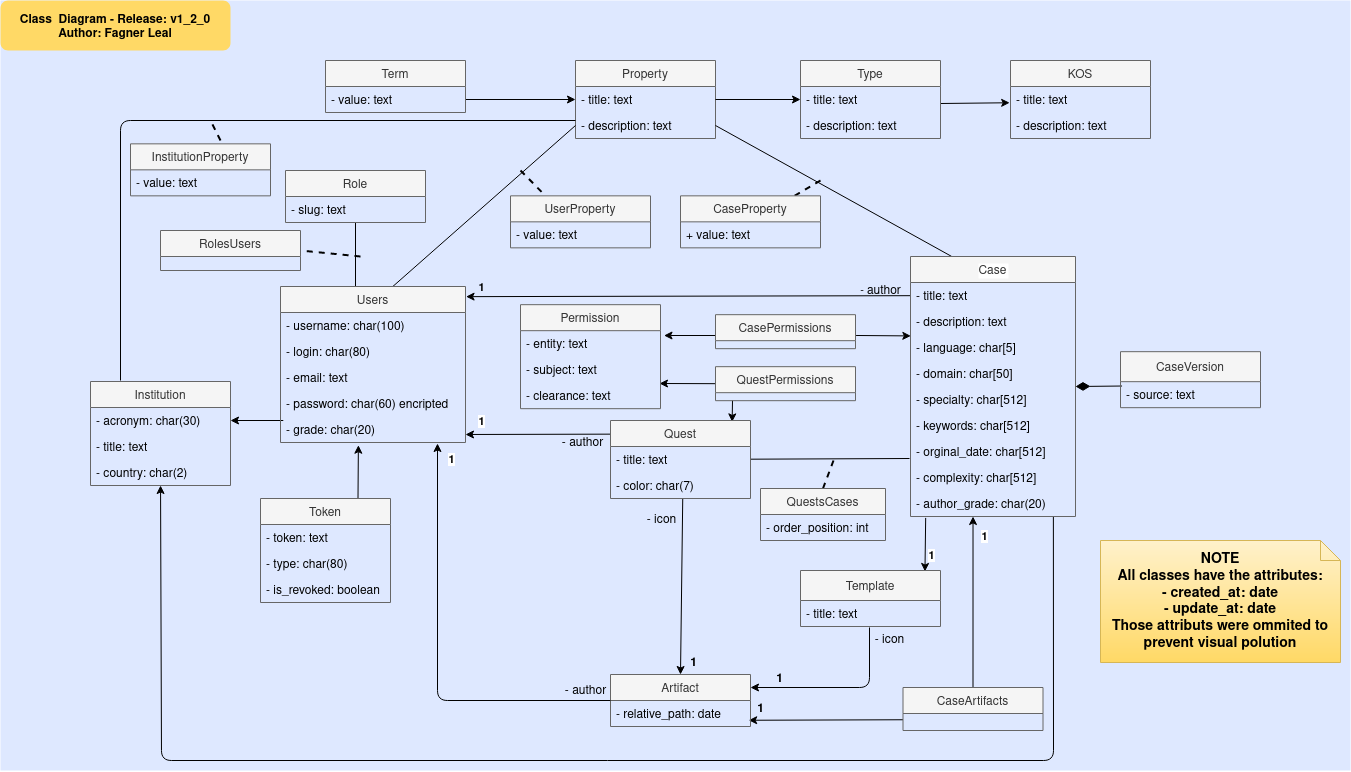
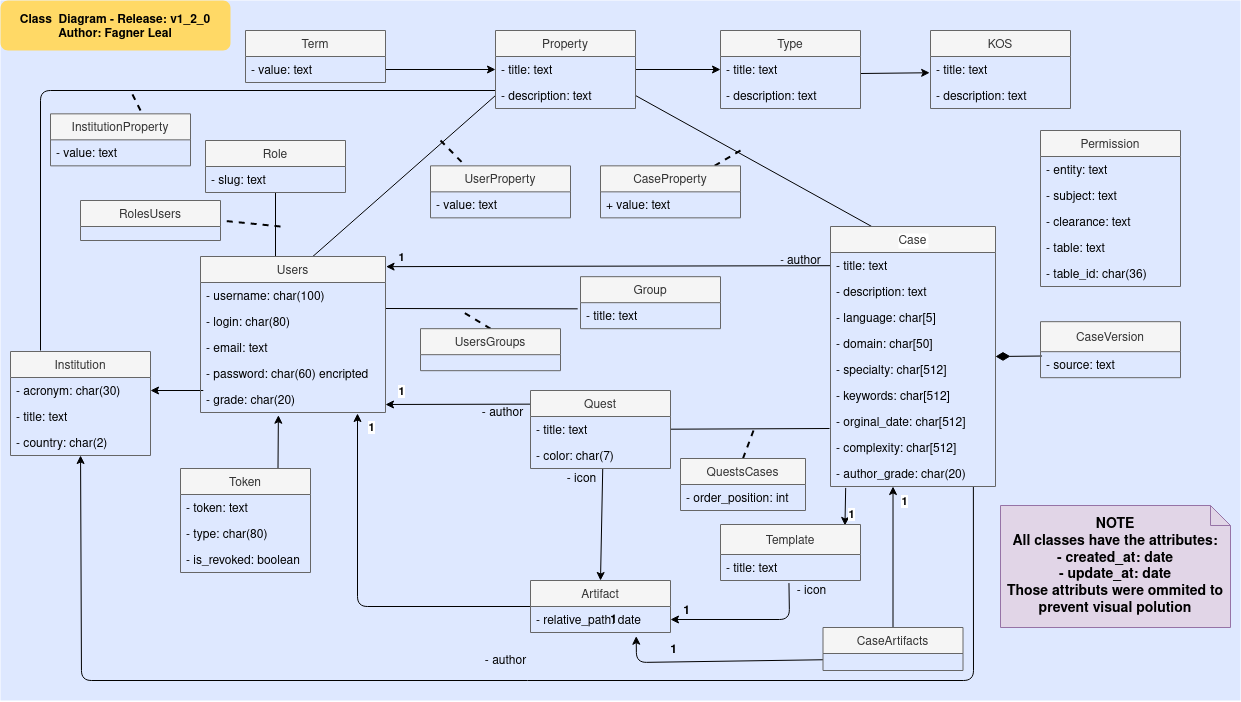
feat(authorization): extinguish users--cases relationship
BREAKING CHANGE: From now on, 1 case has only 1 user associated, the author. The others associated users are found via `permissions` and `groups` tables
Closes #102

diff --git a/src/adonisjs/database/seeds/InitialSeeder.js b/src/adonisjs/database/seeds/InitialSeeder.js
@@ -43,23 +43,29 @@ class UserSeeder {
       if (jacinto == null) {
 
         const user = await this.seed_default_users(trx)
+
         const institution = await this.seed_institution(user, trx)
+        console.log(institution)
+        await user.save(trx)
 
-        const c = await this.seed_default_case(institution, trx)
+        // const c = await this.seed_default_case(user,institution, trx)
 
-        await this.seed_artifact(user, c, trx)
+        // c.author_id = user.id
+
+        // await this.seed_artifact_case(user, c, trx)
+        await this.seed_artifact(user, trx)
+
         await this.seedCategories(user, trx)
 
 
-        await user.save(trx)
+console.log(user.id)
 
-        await c.users().attach([user.id], (row) => {
-          row.permission = 'delete'
-        }, trx)
+        // await c.author().attach([user.id], trx)
 
         const roles = await this.seed_roles(trx)
 
-        const quest = await this.seedQuest(user, trx)
+        // broken. Need fix
+        // const quest = await this.seedQuest(user, trx)
 
         await trx.commit()
 
@@ -67,9 +73,9 @@ class UserSeeder {
 
         await user.roles().attach([roles[0].id, roles[1].id, roles[2].id], trx)
 
-        await quest.cases().attach([c.id], (row) => {
-          row.order_position = 0
-        }, trx)
+        // await quest.cases().attach([c.id], (row) => {
+        //   row.order_position = 0
+        // }, trx)
 
         await trx.commit()
       } else {
@@ -122,6 +128,7 @@ class UserSeeder {
       user.login = 'jacinto'
       user.email = 'jacinto@email.com'
       user.password = 'jacinto'
+      user.grade = 'professor'
 
       user.id = await uuidv4()
 
@@ -131,8 +138,9 @@ class UserSeeder {
     }
   }
 
-  async seed_default_case (institution, trx) {
+  async seed_default_case (user, institution, trx) {
     try {
+
       const c = new Case()
       c.title = 'default-case'
       c.description = 'Case for tests'
@@ -142,25 +150,53 @@ class UserSeeder {
       c.keywords = 'keyword1; keyword2'
       c.complexity = 'undergraduate'
       c.id = await uuidv4()
+      console.log('kosdkoskdoskdoksd'+user.id)
+      c.author_id = user.id
 
       const cv = new CaseVersion()
       cv.source = fs.readFileSync(Helpers.resourcesPath('case.md'), 'utf8')
       cv.id = await uuidv4()
+      // cv.case_id = c.id
+      console.log('c1--------------'+c)
+console.log('user---------------'+user)
 
-      await c.versions().save(cv, trx)
+console.log(cv)
+      await c.versions().save([cv.id], trx)
+      console.log('salvoooooooooooooooooooooooooooooooooooooooooooooooou version')
       await c.institution().associate(institution, trx)
-
+console.log('c2--------------'+c)
       return c
     } catch (e) {
       console.log(e)
     }
   }
 
-  async seed_artifact (user, c, trx) {
+
+  async seed_artifact (user, trx) {
+    try {
+      const artifact_id = 'default-quest-image'
+      const fileName = artifact_id + '.png'
+      const fs_path = Helpers.publicPath('/resources/artifacts/')
+
+      const artifact = new Artifact()
+      artifact.id = artifact_id
+      artifact.relative_path = ARTIFACTS_DIR + fileName
+
+      await Drive.copy(Helpers.resourcesPath('imgs/default-quest.png'), fs_path + fileName)
+
+      await user.artifacts().save(artifact, trx)
+
+    } catch (e) {
+      console.log(e)
+    }
+  }
+
+
+  async seed_artifact_case (user, c, trx) {
     try {
       const artifact_id = await uuidv4()
       const fileName = artifact_id + '.png'
-
+      console.log('------------------------------' + c)
       const fs_path = Helpers.publicPath('/resources/artifacts/cases/') + c.id + '/'
 
       const case_relative_path = ARTIFACTS_DIR + 'cases/' + c.id + '/'
@@ -196,6 +232,8 @@ class UserSeeder {
     return roles
   }
 
+
+  // broken. Need fix
   async seedQuest(user, trx){
     const quest = new Quest()
     quest.id = 'default-quest'
@@ -270,6 +308,8 @@ class UserSeeder {
       await category.artifact().associate(artifact, trx)
       await user.artifacts().save(artifact, trx)
       await category.save(trx)
+
+
     }
   }
 }

diff --git a/src/adonisjs/app/Controllers/Http/v1/UserController.js b/src/adonisjs/app/Controllers/Http/v1/UserController.js
@@ -150,24 +150,18 @@ class UserController {
   async listCases ({ request, response, auth }) {
     try {
       const user = await auth.user
-      // console.log('----------------------------------')
-      // console.log(user)
+     
       const clearance = parseInt(request.input('clearance'))
-      // console.log(clearance)
-
+     
+    //  Return casem which the user is author AND cases which she have access permission
+    //  Atualmente retorn somente a permissões via institution, é preciso aumentar a sql pra comportar outros escopos: grupos, only me, system, etc...
       const result = await Database
         .select([ 'cases.id', 'cases.title','cases.description',  'cases.author_grade', 'users.username'])
         .distinct('cases.id')
-        /*
-          WHERE cases.user_id = user.id OR (permission.entity='university'
-          AND persmission.subject=user.institution_id)
-        */
-        // .select('*')
-        // .select('cases.id, cases.title, cases.description, cases.')
         .from('cases')
-        .leftJoin('permissions', 'cases.id', 'permissions.case_id')
-        .join('users', 'users.id', 'cases.user_id')
-        .where('cases.user_id', user.id)
+        .leftJoin('permissions', 'cases.id', 'permissions.table_id')
+        .join('users', 'users.id', 'cases.author_id')
+        .where('cases.author_id', user.id)
         .orWhere(function () {
           this
             .where('permissions.entity', 'institution')
@@ -175,10 +169,6 @@ class UserController {
             .where('permissions.clearance', '>=', clearance)
         })
 
-        // No cenário do minho, todos os alunos são da mesma instituição,
-        // logo os casos em que o usuário é autor sao retornados nessa consulta.
-        // Porém pra aleḿ do minho sera preciso repensar se os casos em que o usuario é author
-        // devem (e como??) serão retornados
       console.log(result)
       return response.json(result)
     } catch (e) {

diff --git a/src/adonisjs/app/Controllers/Http/v1/CaseController.js b/src/adonisjs/app/Controllers/Http/v1/CaseController.js
@@ -77,30 +77,30 @@ class CaseController {
       c.complexity = request.input('complexity')
 
       c.author_grade = auth.user.grade
+      c.author_id = auth.user.id
 
       const cv = new CaseVersion()
       cv.id = await uuidv4()
       cv.source = request.input('source')
       await c.versions().save(cv, trx)
 
-      await c.users().attach(auth.user.id, (row) => {
-        row.permission = 'delete'
-      }, trx)
-
       const permission = new Permission()
       permission.id = await uuidv4()
       permission.entity = request.input('permissionEntity')
       permission.subject = request.input('permissionSubjectId')
       permission.clearance = request.input('permissionClearance')
-      await c.permissions().save(permission, trx)
+      permission.table = 'cases'
+      permission.table_id = c.id
 
-      const institutionAcronym = request.input('institution')
-      let institution = await Institution.findBy('acronym', institutionAcronym)
+      permission.save(trx)
+
+      let institution = await Institution.find(auth.user.institution_id)
       await c.institution().associate(institution, trx)
 
       trx.commit()
+
       c.versions = await c.versions().fetch()
-      c.users = await c.users().fetch()
+
       return response.json(c)
     } catch (e) {
       console.log(e)

diff --git a/src/adonisjs/app/Controllers/Http/v1/CategoryController.js b/src/adonisjs/app/Controllers/Http/v1/CategoryController.js
@@ -79,19 +79,12 @@ class CategoryController {
       const clearance = parseInt(request.input('clearance'))
       const categoryId = request.input('categoryId')
       const category = await Category.find(categoryId)
-      // console.log('-=============================================');
-      // console.log(category);
+
       const test = await Database
         .select([ 'cases.id', 'cases.title','cases.description',  'cases.author_grade', 'users.username'])
         .distinct('cases.id')
-        /*
-          WHERE cases.user_id = user.id OR (permission.entity='university'
-          AND persmission.subject=user.institution_id)
-        */
-        // .select('*')
-        // .select('cases.id, cases.title, cases.description, cases.')
         .from('cases')
-        .leftJoin('permissions', 'cases.id', 'permissions.case_id')
+        .leftJoin('permissions', 'cases.id', 'permissions.table_id')
         .join('users', 'users.id', 'cases.user_id')
         .where('cases.category_id', category.id)
         .where(function(){
@@ -104,10 +97,6 @@ class CategoryController {
                 .where('permissions.clearance', '>=', clearance)
             })
         })
-
-
-        // .join('cases', 'users_cases.case_id', 'cases.id')
-
 
       return response.json(test)
     } catch (e) {

diff --git a/src/adonisjs/database/migrations/1603564922824_drop_users_quests_schema.js b/src/adonisjs/database/migrations/1603564922824_drop_users_quests_schema.js
@@ -1,0 +1,25 @@
+'use strict'
+
+/** @type {import('@adonisjs/lucid/src/Schema')} */
+const Schema = use('Schema')
+
+class DropUsersQuestsSchema extends Schema {
+  up () {
+    this.dropIfExists('quests_users')
+  }
+
+  down () {
+    this.create('quests_users', (table) => {
+      table.uuid('user_id').references('id').inTable('users').index('user_id')
+      table.uuid('quest_id').references('id').inTable('quests').index('quest_id')
+      table.integer('permission')
+
+      table.primary(['quest_id', 'user_id', 'permission'])
+
+      table.timestamps()
+    })
+
+  }
+}
+
+module.exports = DropUsersQuestsSchema

diff --git a/src/adonisjs/database/migrations/1603564741801_drop_users_cases_schema.js b/src/adonisjs/database/migrations/1603564741801_drop_users_cases_schema.js
@@ -1,0 +1,24 @@
+'use strict'
+
+/** @type {import('@adonisjs/lucid/src/Schema')} */
+const Schema = use('Schema')
+
+class DropUsersCasesSchema extends Schema {
+  up () {
+    this.dropIfExists('users_cases')
+  }
+
+  down () {
+    this.create('users_cases', (table) => {
+      table.uuid('user_id').references('id').inTable('users').index('user_id')
+      table.uuid('case_id').references('id').inTable('cases').index('case_id')
+      table.primary(['case_id', 'user_id'])
+
+      table.string('permission')
+
+      table.timestamps()
+    })
+  }
+}
+
+module.exports = DropUsersCasesSchema

diff --git a/src/adonisjs/database/migrations/1603565349816_case_update_add_author_id_attribute_schema.js b/src/adonisjs/database/migrations/1603565349816_case_update_add_author_id_attribute_schema.js
@@ -1,0 +1,21 @@
+'use strict'
+
+/** @type {import('@adonisjs/lucid/src/Schema')} */
+const Schema = use('Schema')
+
+class CaseUpdateAddAuthorIdAttributeSchema extends Schema {
+  up () {
+    this.table('cases', (table) => {
+      table.uuid('author_id').references('id').inTable('users').index('author_id')
+    })
+  }
+
+  down () {
+    this.table('cases', (table) => {
+      table.dropForeign('author_id')
+      table.dropColumn('author_id')
+    })
+  }
+}
+
+module.exports = CaseUpdateAddAuthorIdAttributeSchema

diff --git a/src/adonisjs/database/migrations/1603469478446_permission_schema.js b/src/adonisjs/database/migrations/1603469478446_permission_schema.js
@@ -16,9 +16,13 @@ class PermissionSchema extends Schema {
       table.string('subject')
 
       // read, comment, share, edit, delete
-      table.string('clearance')
+      table.tinyint('clearance')
 
-      table.uuid('case_id').references('id').inTable('cases').index('case_id')
+      // cases, templates, quests,  artifacts
+      table.string('table')
+
+      // 'caseid111-111.sei-la', 'templates1323-xyz', 'quests_id',  'artifactsId'
+      table.uuid('table_id')
 
       table.timestamps()
     })

diff --git a/src/adonisjs/app/Models/v1/Case.js b/src/adonisjs/app/Models/v1/Case.js
@@ -20,11 +20,8 @@ class Case extends Model {
     return this.hasMany('App/Models/v1/Permission')
   }
 
-  users () {
-    return this.belongsToMany('App/Models/v1/User')
-      .pivotTable('users_cases')
-      .withPivot(['permission'])
-      .withTimestamps()
+  author () {
+    return this.belongsTo('App/Models/v1/User')
   }
 
   quests () {
